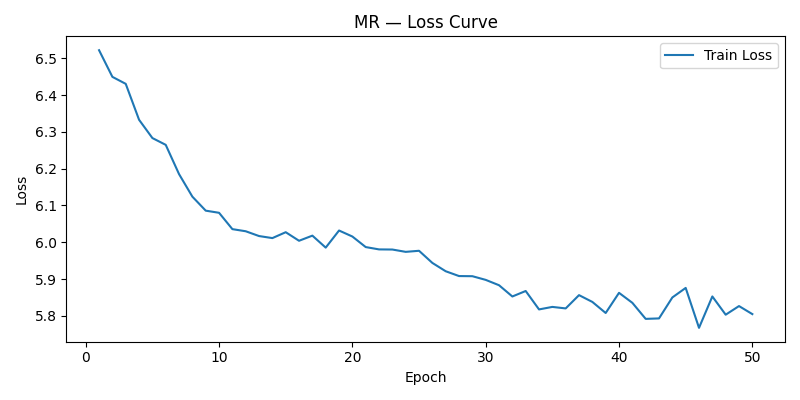
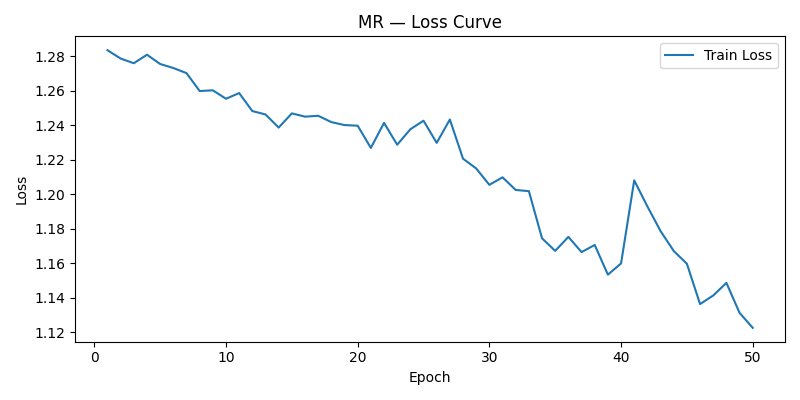
Training accuracy slightly improved, still not much better than random chance

diff --git a/src/train.py b/src/train.py
@@ -3,6 +3,7 @@ import numpy as np
 import torch
 import pickle
 import json
+import torch.nn.functional as F
 
 from src.graph.word_graph_builder import WordGraphBuilder
 from src.graph.entity_graph_builder import EntityGraphBuilder
@@ -24,6 +25,8 @@ def evaluate(model, Z_org, idx, true_labels):
         logits = model.classify(Z)
         preds = torch.argmax(logits, dim=1).cpu().numpy()
     labels = [true_labels[i] for i in idx]
+    assert len(Z_org) == len(true_labels)
+    
     acc = accuracy_score(labels, preds)
     f1 = f1_score(labels, preds, average="macro")
     return acc, f1
@@ -99,8 +102,6 @@ class GIFTTrainer:
         )
 
     def build_embeddings(self, M_w_t, M_e_t, M_p_t, M_wr_t, M_er_t, M_pr_t, H_w, H_e, H_p):
-        # TD matrices are pre-converted tensors passed in
-        # H matrices are GCN outputs
         Z_w = M_w_t @ H_w
         Z_e = M_e_t @ H_e
         Z_p = M_p_t @ H_p
@@ -180,7 +181,6 @@ if __name__ == "__main__":
     print(f"Train labeled: {len(train_labeled_idx)}")
     print(f"Val: {len(val_idx)}")
     print(f"Test: {len(test_idx)}")
-    print(f"Sum check: {len(train_labeled_idx) + len(val_idx) + len(test_idx)}")
 
     # Load preprocessed data
     base = f"data/processed/{args.dataset}"
@@ -195,6 +195,14 @@ if __name__ == "__main__":
     labels_tensor = torch.tensor(all_labels, dtype=torch.long)
     print(f"Label distribution in train: {torch.bincount(labels_tensor[torch.tensor(train_labeled_idx)])}")
     print(f"Label distribution overall:  {torch.bincount(labels_tensor)}")
+    
+    class_counts = torch.bincount(
+        labels_tensor[torch.tensor(train_labeled_idx)]
+    ).float()
+
+    weights = 1.0 / class_counts
+    weights = weights / weights.sum()
+    print("Class weights:", weights)
 
     config = {
         "glove_path": "data/external/glove/glove.pkl",
@@ -240,8 +248,13 @@ if __name__ == "__main__":
     # Run SVD
     print("Running SVD...")
     M_wr, M_er, M_pr = trainer.run_svd(M_w, M_e, M_p)
+    
+    # SVD views
+    M_wr_t = torch.tensor(M_wr, dtype=torch.float32)
+    M_er_t = torch.tensor(M_er, dtype=torch.float32)
+    M_pr_t = torch.tensor(M_pr, dtype=torch.float32)
 
-    # Cconvert TD matrices to tensors
+    # Convert TD matrices to tensors
     M_w_t = torch.tensor(M_w,  dtype=torch.float32)
     M_e_t = torch.tensor(M_e,  dtype=torch.float32)
     M_p_t = torch.tensor(M_p,  dtype=torch.float32)
@@ -265,8 +278,23 @@ if __name__ == "__main__":
         train_labeled_idx,
         train_labels_only
     )
-    weak_labels_tensor = torch.tensor(weak_labels, dtype=torch.long)
-    print(f"K-means done. Weak label distribution: {torch.bincount(weak_labels_tensor)}")
+    
+    weak_labels_tensor = torch.full(
+        (len(weak_labels),),
+        -1,
+        dtype=torch.long
+    )
+
+    weak_labels_np = np.array(weak_labels)
+    cluster_counts = np.bincount(weak_labels_np[weak_labels_np >= 0])
+
+    for i, label in enumerate(weak_labels):
+        if label >= 0 and cluster_counts[label] < 0.9 * len(weak_labels):
+            weak_labels_tensor[i] = label
+
+    # Preserve true labels
+    for idx in train_labeled_idx:
+        weak_labels_tensor[idx] = labels_tensor[idx]
 
     # Optimizer covers all trainable parameters
     optimizer = torch.optim.Adam(
@@ -274,7 +302,7 @@ if __name__ == "__main__":
         list(trainer.gcn_w.parameters()) +
         list(trainer.gcn_e.parameters()) +
         list(trainer.gcn_p.parameters()),
-        lr=1e-3
+        lr=1e-3 # Learning rate 0.001
     )
 
     metrics = {"train_loss": [], "val_acc": [], "val_f1": []}
@@ -296,6 +324,37 @@ if __name__ == "__main__":
             M_w_t, M_e_t, M_p_t, M_wr_t, M_er_t, M_pr_t,
             H_w, H_e, H_p
         )
+        
+        Z_org.shape[1] == config["input_dim"]
+        print("Z_org shape:", Z_org.shape)
+        
+        # Allow clusters to envolve with embedddings
+        if epoch % 10 == 0:
+            with torch.no_grad():
+                weak_labels = trainer.run_kmeans(
+                    Z_org.detach().cpu().numpy(),
+                    train_labeled_idx,
+                    labels_tensor[train_labeled_idx]
+                )
+
+            weak_labels_tensor = torch.full(
+                (len(weak_labels),),
+                -1,
+                dtype=torch.long
+            )
+
+            weak_labels_np = np.array(weak_labels)
+            cluster_counts = np.bincount(weak_labels_np[weak_labels_np >= 0])
+
+            for i, label in enumerate(weak_labels):
+                if label >= 0 and cluster_counts[label] < 0.9 * len(weak_labels):
+                    weak_labels_tensor[i] = label
+
+            # Preserve labels
+            for idx in train_labeled_idx:
+                weak_labels_tensor[idx] = labels_tensor[idx]
+
+            print("Refreshed k-means labels")
 
         outputs = trainer.model(
             Z_org,

diff --git a/src/model/gift_model.py b/src/model/gift_model.py
@@ -57,8 +57,8 @@ class GIFTModel(nn.Module):
         self.cluster_loss_fn = ClusterContrastiveLoss(temperature=temperature, batch_size=256)
         
         # L_ce
-        self.cross_entropy = cross_entropy
-
+        self.cross_entropy = nn.CrossEntropyLoss()
+            
     def forward(
         self,
         Z_org,
@@ -67,25 +67,14 @@ class GIFTModel(nn.Module):
         labeled_indices,
         true_labels
     ):
-        print(f"  Z_org min/max: {Z_org.min().item():.4f} / {Z_org.max().item():.4f}")
-    
         # Eq. 6
         P_org = self.contrastive_projection(Z_org)
         P_aug = self.contrastive_projection(Z_aug)
         L_cl = self.contrastive_loss_fn(P_org, P_aug)
         print(f"  L_cl: {L_cl.item():.4f}")
-        
-        print(f"  ContrastiveLoss input shape: {P_org.shape}")
 
         # Eq. 7
         Q = self.cluster_projection(Z_org)
-
-        # Check projection head weights for NaN
-        for name, param in self.cluster_projection.named_parameters():
-            if torch.isnan(param).any():
-                print(f"  NaN in cluster_projection param: {name}")
-        print(f"  Q has nan: {torch.isnan(Q).any().item()}")
-        print(f"  Q min/max: {Q.min().item():.4f} / {Q.max().item():.4f}")
 
         L_ccl = self.cluster_loss_fn(Q, cluster_labels)
         print(f"  L_ccl: {L_ccl.item():.4f}")
@@ -93,15 +82,7 @@ class GIFTModel(nn.Module):
         # Eq. 8
         logits = self.classifier(Z_org)
         labeled_logits = logits[labeled_indices]
-        L_ce = self.cross_entropy(labeled_logits, true_labels[labeled_indices])
-        
-        # DEBUG
         labeled_true = true_labels[labeled_indices]
-        print(f"  labeled_indices[:5]: {labeled_indices[:5]}")
-        print(f"  labeled_true unique: {labeled_true.unique()}")
-        print(f"  labeled_logits shape: {labeled_logits.shape}")
-        print(f"  labeled_true shape: {labeled_true.shape}")
-        print(f"  labeled_true values: {labeled_true[:5]}")
         L_ce = self.cross_entropy(labeled_logits, labeled_true)
         print(f"  L_ce: {L_ce.item():.4f}")
 

diff --git a/src/contrastive/cluster_contrastive_loss.py b/src/contrastive/cluster_contrastive_loss.py
@@ -19,27 +19,21 @@ class ClusterContrastiveLoss(nn.Module):
             labels = labels[idx]
             
         print(f"  CCL labels unique: {labels.unique()}")
-        print(f"  CCL labels -1 count: {(labels == -1).sum().item()}")
 
         embeddings = F.normalize(embeddings, dim=1)
         B = embeddings.shape[0]
 
         sim = torch.matmul(embeddings, embeddings.T) / self.temperature  
-        print(f"  sim min/max: {sim.min().item():.2f} / {sim.max().item():.2f}")
 
         eye_mask = torch.eye(B, device=embeddings.device).bool()
         exp_sim = torch.exp(sim).masked_fill(eye_mask, 0.0)
-        print(f"  exp_sim min/max: {exp_sim.min().item():.4f} / {exp_sim.max().item():.4f}")
 
         denominator = exp_sim.sum(dim=1, keepdim=True)
-        print(f"  denominator zeros: {(denominator == 0).sum().item()}")
 
         # Vectorized positive mask — no Python loop
         labels = labels.to(embeddings.device)
         positive_mask = (labels.unsqueeze(0) == labels.unsqueeze(1)) 
         positive_mask = positive_mask & ~eye_mask # Exclude self
-        print(f"  positive_mask any: {positive_mask.any().item()}")
-        print(f"  n_positives per sample: {positive_mask.sum(dim=1)[:5]}")
 
         # Count positives per sample
         n_positives = positive_mask.sum(dim=1).float() 
@@ -52,7 +46,6 @@ class ClusterContrastiveLoss(nn.Module):
 
         # Only average over samples that have at least one positive
         valid = n_positives > 0
-        print(f"  valid samples: {valid.sum().item()} / {B}")
         
         if valid.sum() == 0:
             return torch.tensor(0.0, device=embeddings.device)

diff --git a/src/test.py b/src/test.py
@@ -73,7 +73,7 @@ if __name__ == "__main__":
 
     # Load saved model weights
     checkpoint = torch.load(f"saved_models/{args.dataset}_gift.pt", weights_only=True)
-    trainer.model.load_state_dict(checkpoint["model"])
+    trainer.model.load_state_dict(checkpoint["model"], strict=True)
     trainer.gcn_w.load_state_dict(checkpoint["gcn_w"])
     trainer.gcn_e.load_state_dict(checkpoint["gcn_e"])
     trainer.gcn_p.load_state_dict(checkpoint["gcn_p"])
@@ -83,10 +83,6 @@ if __name__ == "__main__":
     trainer.gcn_w.eval()
     trainer.gcn_e.eval()
     trainer.gcn_p.eval()
-
-    # Build graphs and init GCN before running
-    word_graph, entity_graph, pos_graph = trainer.build_graphs(tokens, entities, pos)
-    trainer.init_gcn(word_graph, entity_graph, pos_graph)
 
     # Rebuild embeddings
     Z_org = rebuild_embeddings(

diff --git a/src/visualize.py b/src/visualize.py
@@ -114,7 +114,7 @@ if __name__ == "__main__":
 
     # Load saved model weights
     checkpoint = torch.load(f"saved_models/{args.dataset}_gift.pt", weights_only=True)
-    trainer.model.load_state_dict(checkpoint["model"])
+    trainer.model.load_state_dict(checkpoint["model"], strict=True)
     trainer.gcn_w.load_state_dict(checkpoint["gcn_w"])
     trainer.gcn_e.load_state_dict(checkpoint["gcn_e"])
     trainer.gcn_p.load_state_dict(checkpoint["gcn_p"])

diff --git a/src/model/classifier.py b/src/model/classifier.py
@@ -10,6 +10,7 @@ class Classifier(nn.Module):
         self.network = nn.Sequential(
             nn.Linear(input_dim, hidden_dim),
             nn.ReLU(),
+            nn.Dropout(0.3),
             nn.Linear(hidden_dim, num_classes)
         )
 